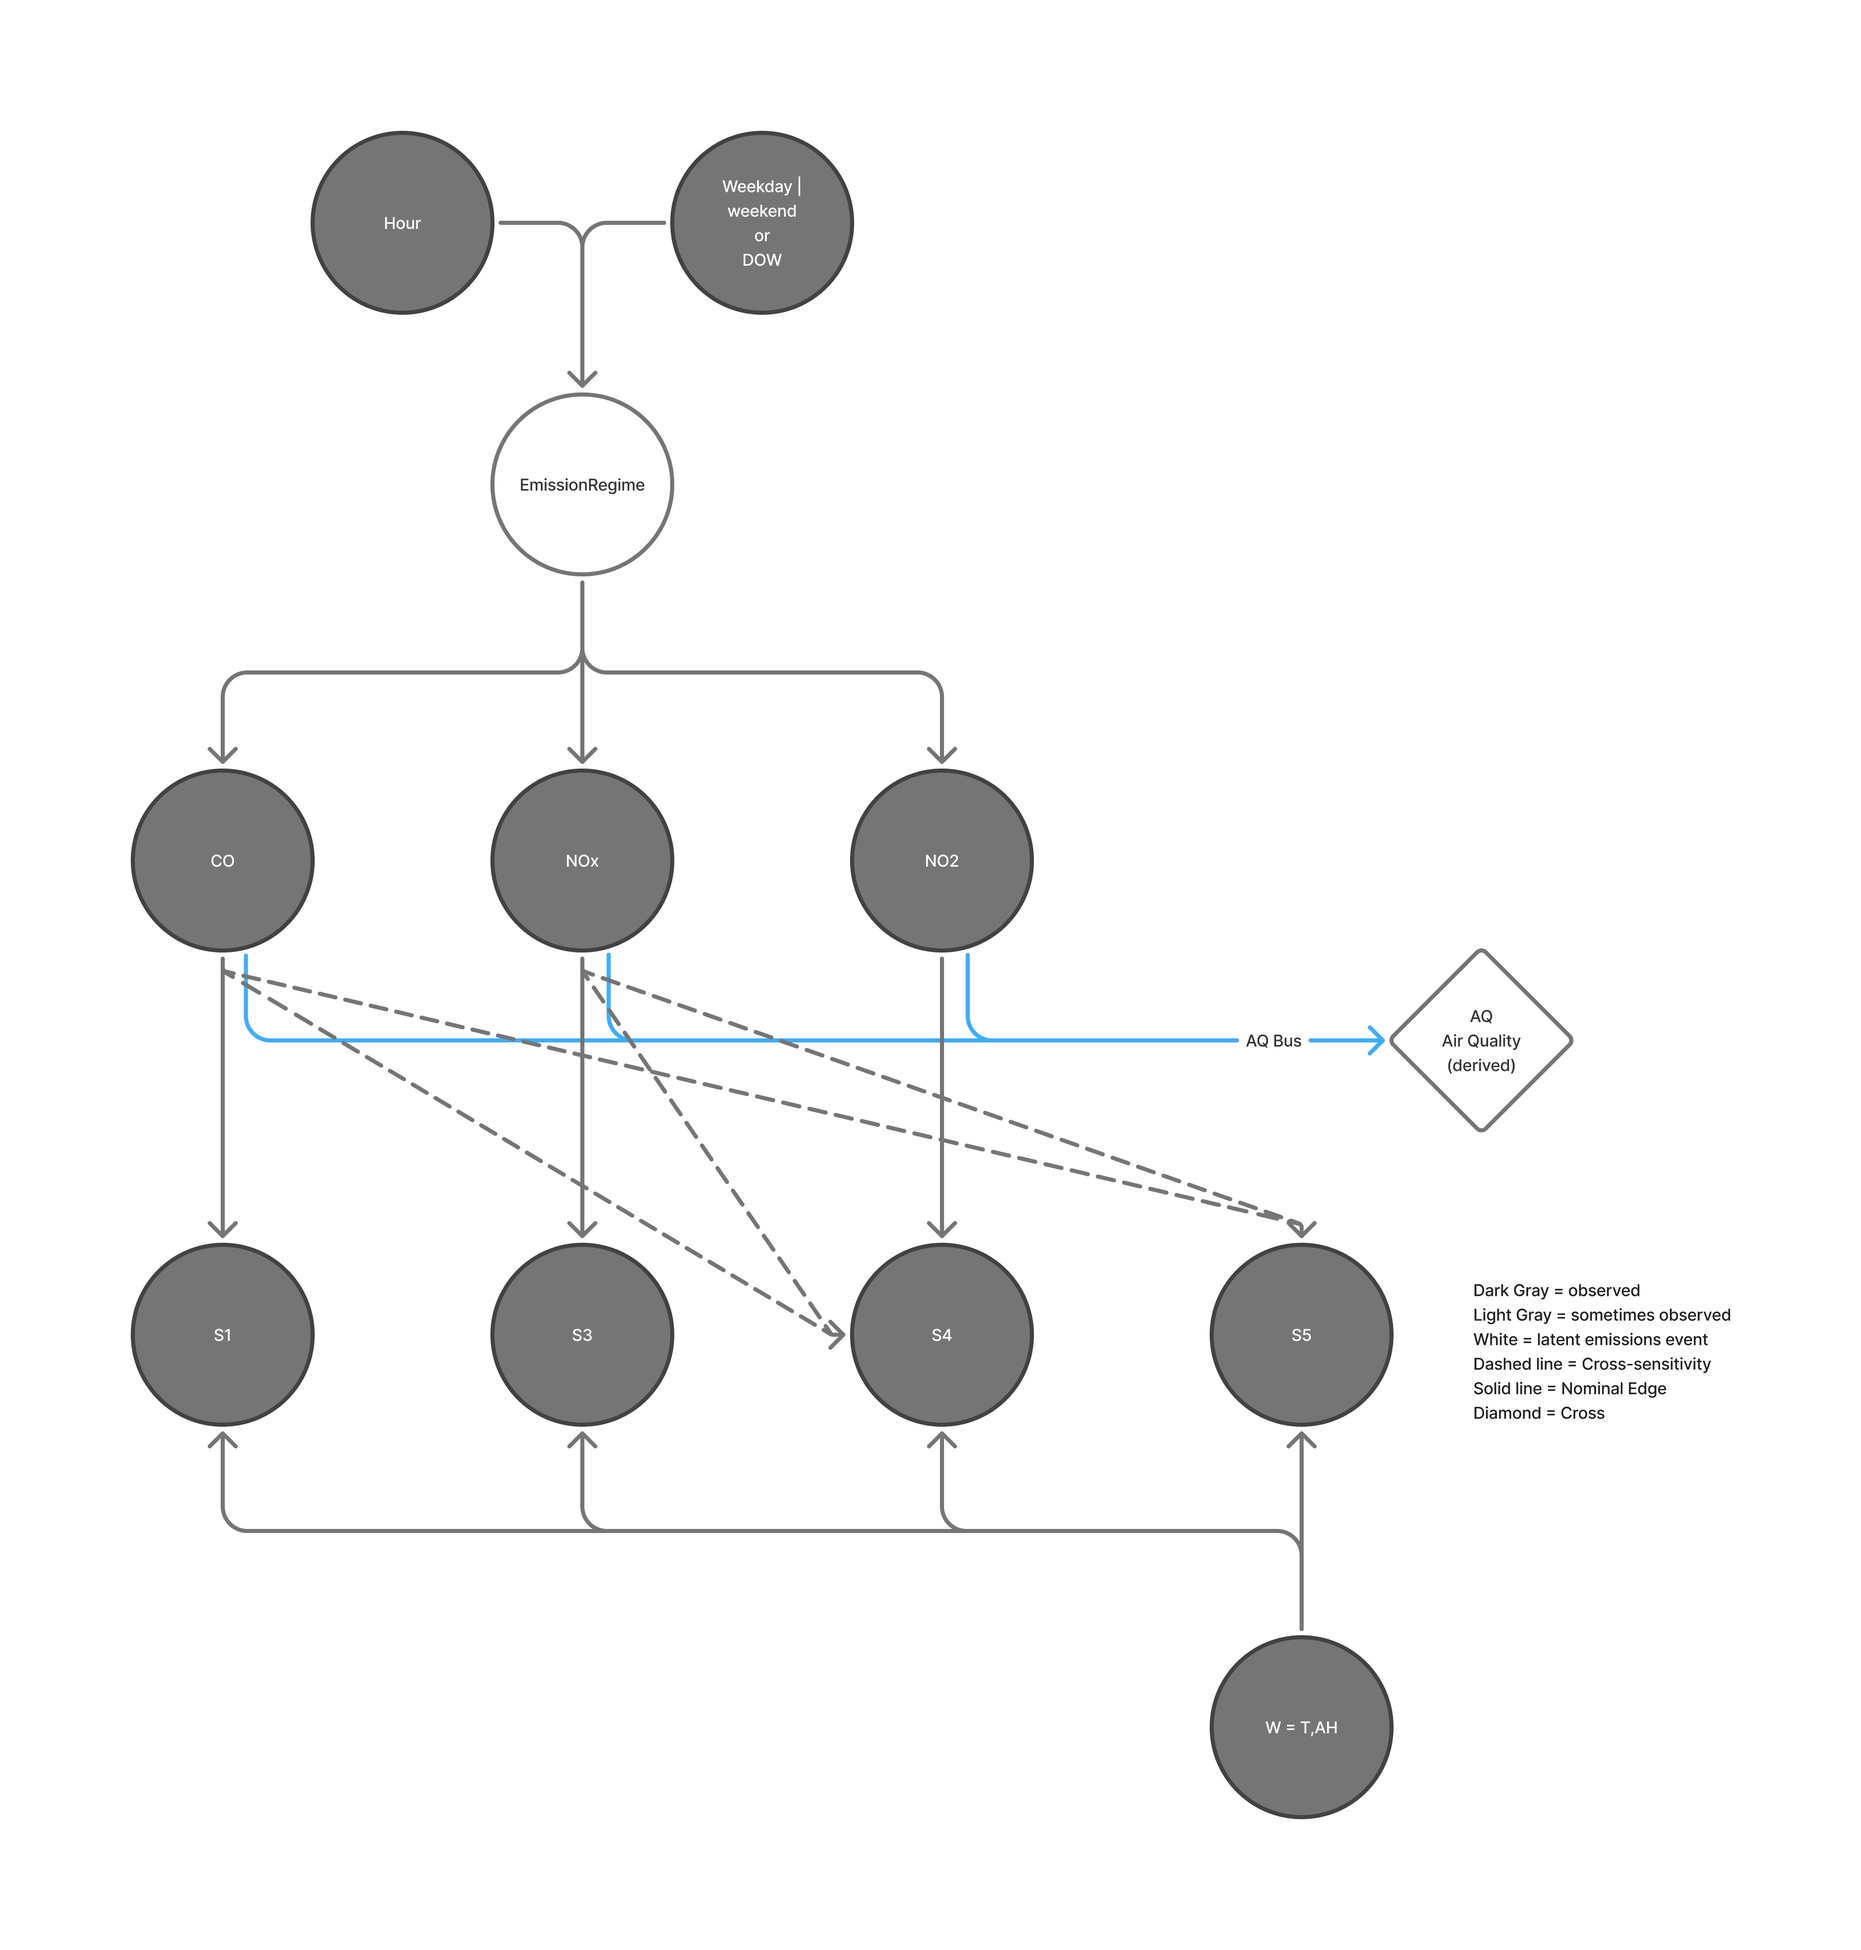
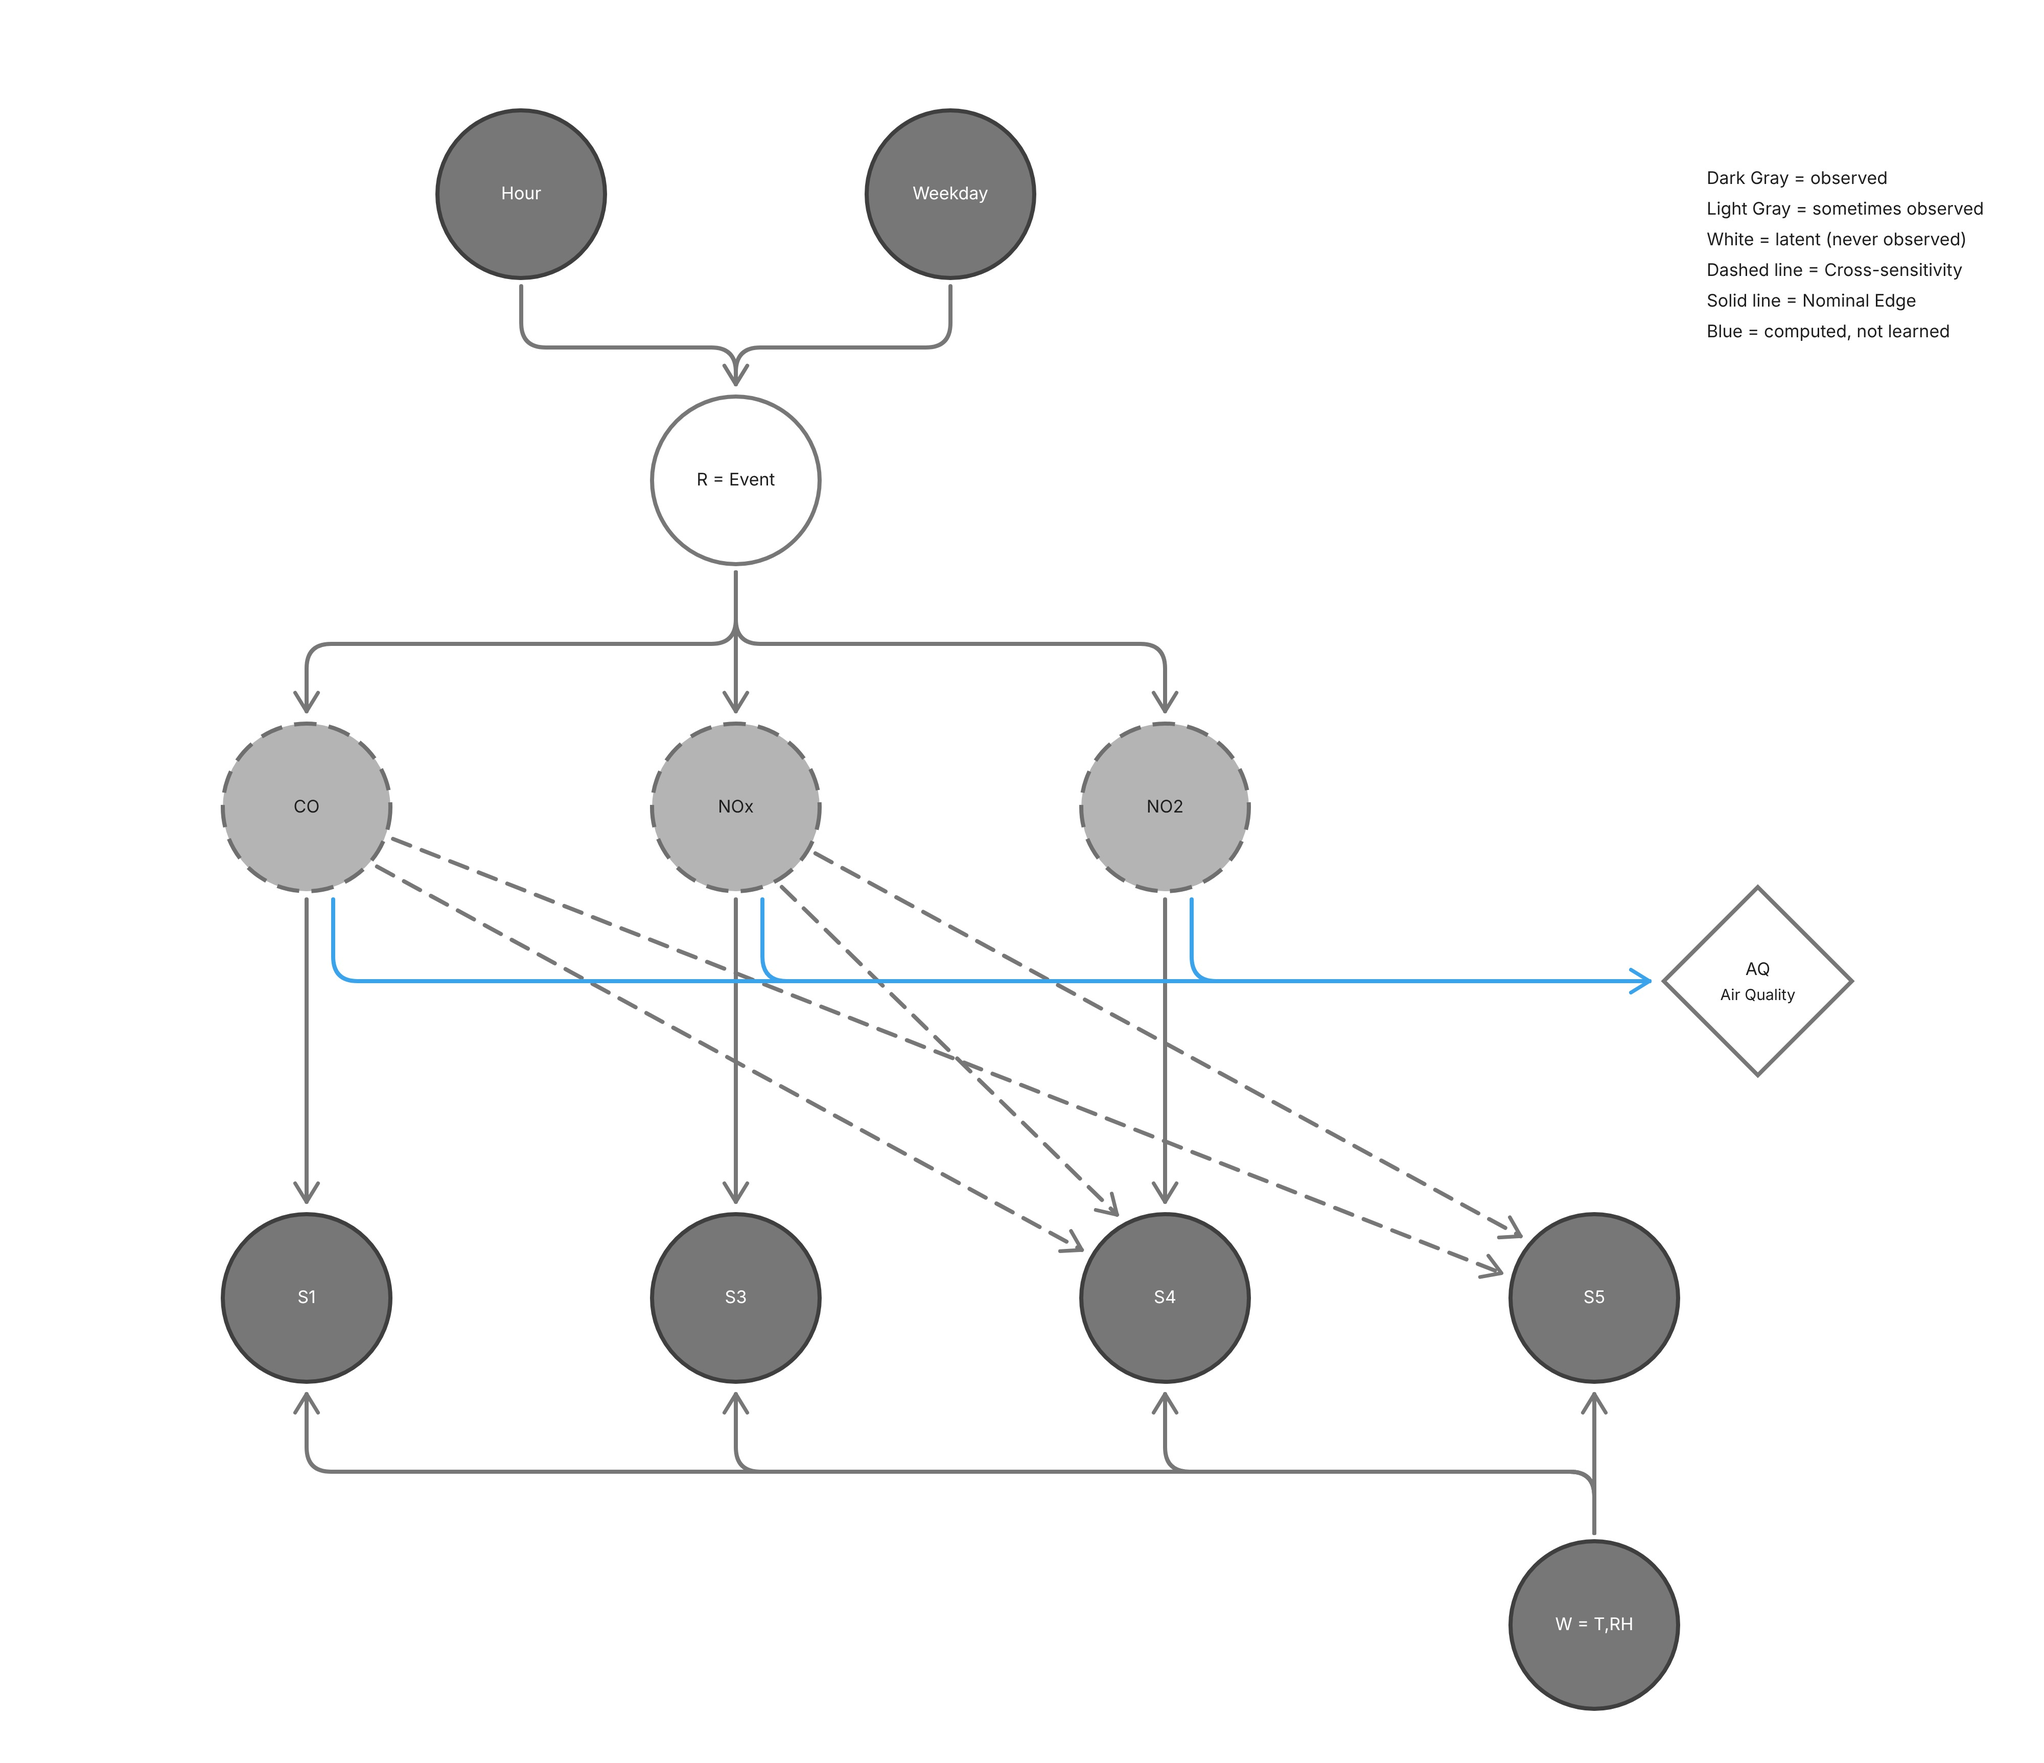
Report: Phase 3b figure and latent regime sections (#37)
* Add files via upload

Final network diagram for Phase 3b

* Add files via upload

Report: latent regime and inference sections

* Add files via upload

Report: Muska's contribution

---------

diff --git a/docs/paper/report/sections/03_modeling.tex b/docs/paper/report/sections/03_modeling.tex
@@ -61,7 +61,33 @@ $\prod K_U$ has $(K_X - 1)\prod K_U$ free parameters. At $K = 3$ the network has
 % - R <- hour, weekday; gases <- R. Unobserved on every row.
 % - Purpose: make gases conditionally independent (check: within-R corr ~ 0).
 % - K_R chosen by val log-lik + restart stability.
-\todo{muska}
+\label{sec:latent}
+\Cref{eq:factorization} treats the three gases as independent given the hour,
+but they share one source: traffic. Within a single hour of day the mean
+gas--gas rank correlation is still 0.54 (0.66 overall), so the hour alone
+does not explain why the gases rise and fall together. We therefore add a
+latent emission regime $R \in \{1,\dots,K_R\}$ between the time inputs and the
+gases, and replace $P(G_j \mid H)$ with
+\begin{equation}
+  P(G \mid H, D) = \sum_{r=1}^{K_R} P(R{=}r \mid H, D)
+  \prod_{j} P(G_j \mid R{=}r).
+  \label{eq:latent}
+\end{equation}
+$R$ has no column and is hidden on every hour, so its CPTs are learned only
+through EM (\cref{sec:em}). The weekday indicator $D$ is a parent of $R$ only,
+so it costs $(K_R-1)\cdot 48$ parameters rather than one table per gas.
+
+If $R$ captures the shared cause, the gases should be nearly independent
+within a regime. We test this directly: we soft-assign each hour to the
+regimes by $P(R \mid e_t)$ and compute the gas--gas rank correlation within
+each regime, weighted by the posterior.
+
+We chose $K_R \in \{2,3,4\}$ by mean validation log-likelihood per hour over
+three blocked split seeds, and kept a value only if it was reproducible across
+five restarts (\cref{sec:em}). We selected $K_R = 3$ with $R \leftarrow (H, D)$:
+it has 870 free parameters against 900 for the network without $R$. A direct
+$H \to G_j$ edge in addition to $R$ did not give a reproducible solution, so
+the gases depend on time only through $R$.
 
 \subsection{Learning with Missing Data (EM)}
 \label{sec:em}
@@ -112,4 +138,20 @@ way the regimes mean the same thing every time we fit and can be interpreted
 % - Query P(G_j | hour, weekday, W, sensors); reference never evidence.
 % - Exact by enumeration over hidden joint (K_R * K^3 states); cost linear in N.
 % - Concentration estimate = sum_k P(bin k | e) c_bar_k; resolution floor.
-\todo{yang \& muska}
+% Muska: the latent-regime case. Joyce: add or merge your part here.
+At prediction time the evidence is $e_t = (H, D, W, S)$; the reference gases
+are never evidence. With the latent regime the hidden variables of an hour are
+$(R, G_{\mathrm{CO}}, G_{\mathrm{NO_x}}, G_{\mathrm{NO_2}})$, only
+$K_R K^3 = 81$ joint states at $K = 3$, so we compute every posterior exactly
+by enumeration:
+\begin{equation}
+  P(G_j \mid e_t) \propto \sum_{r} \sum_{g_{-j}}
+  P(r \mid H, D) \prod_{i} P(g_i \mid r)
+  \prod_{s} P\bigl(s \mid \mathrm{Pa}_G(s), T, \mathit{RH}\bigr).
+\end{equation}
+The cost is linear in the number of hours, and the same sums give the
+E-step's expected counts. The concentration estimate is the posterior mean
+over bins, $\hat c_j = \sum_k P(G_j{=}k \mid e_t)\,\bar c_{j,k}$, where
+$\bar c_{j,k}$ is the training mean of bin $k$. Because $\hat c_j$ can only
+mix the $K$ bin means, its error has a floor even with a perfect posterior;
+we report that resolution floor with every MAE (\cref{sec:results}).

diff --git a/docs/paper/report/sections/contributions/mesdaq.tex b/docs/paper/report/sections/contributions/mesdaq.tex
@@ -1,6 +1,15 @@
 % <Name>: 2--3 sentences total (~0.1 page). Plain text, no \section or \item.
 % Contribution: what you built/ran, with PR or issue numbers.
 % Reflection: one success, one failure or surprise, what you'd change.
-\textbf{Contribution:} \todo{write contribution}
+\textbf{Contribution:} Ran the exploratory analysis and target selection
+(\#4, PR~\#8), the sensor cross-sensitivity study that chose the dashed
+edges (\#16, PR~\#23), and Phase~3b, the latent emission regime (\#19,
+PR~\#24), including a faster exact EM for layered networks and the shared
+restart-stability and within-regime correlation helpers.
 
-\noindent\textbf{Reflection:} \todo{write reflection}
+\noindent\textbf{Reflection:} \todo{Muska: 1--2 sentences in your own words.
+Facts you can draw on: success = within-regime gas correlation fell to 0.05,
+so the regime explains the shared traffic signal; surprise = with $R$ fully
+hidden, $K_R = 4$ and Event + hour gave different answers on each restart,
+so stability had to become a selection rule; next time = check restart
+stability before running the full grid.}
